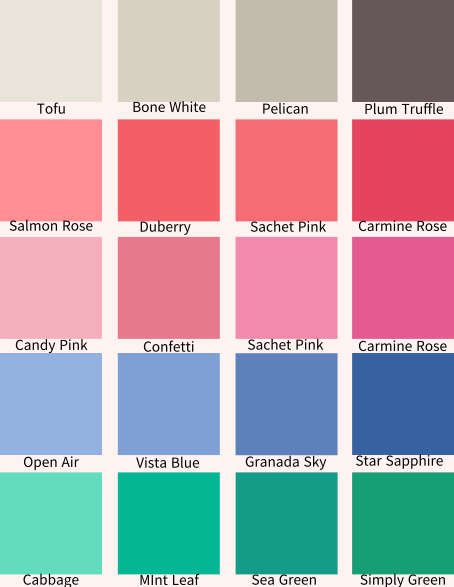
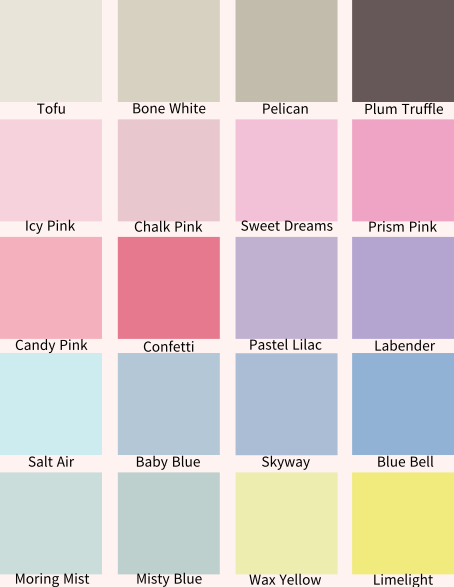
컬러칩수정&쫌쫌따리수정봄

diff --git a/src/personal_color/Result2.js b/src/personal_color/Result2.js
@@ -4,13 +4,13 @@ import PersonalColorDiagnosis from "./PersonalColorsDiagnosis";
 import "./Result2.css";
 
 const colorToTitleMap = {
-  "Spring warm bright": "러블리의 인간화",
-  "Spring warm light": "봄날의 아이콘",
-  "Summer cool light": "싱그러운 청량감의 대표",
-  "Summer cool mute": "청초함의 끝판왕",
-  "Autumn warm deep": "독보적인 분위기",
-  "Autumn warm mute": "가을 햇살의 주인공",
-  "Winter cool bright": "쿨하지만 화려한",
+  "Spring warm bright": "청순한 봄의 요정",
+  "Spring warm light": "과일의 인간화",
+  "Summer cool light": "청초함의 끝판왕",
+  "Summer cool mute": "차분한 분위기",
+  "Autumn warm deep": "차분하고 고급스러운",
+  "Autumn warm mute": "부드럽고 우아한",
+  "Winter cool bright": "강렬하고 화려한",
   "Winter cool deep": "도시적이고 세련된",
   "N-Spring warm light": "웜&쿨 두가지 매력을 가진",
   "N-Summer cool light": "웜&쿨 두가지 매력을 가진",
@@ -43,21 +43,21 @@ const imageMap = {
 
 const colorDescriptions = {
   "Spring warm light":
-    "밝고 산뜻한 봄의 이미지가 느껴지는 톤입니다.\n 주로 흰색빛의 파스텔 계열이 잘 어울립니다.\n 명도와 채도가 낮은 색은 피해주세요!",
+    "밝고 산뜻한 봄의 이미지가 느껴지는 톤이네요!\n 흰빛이 섞인 따뜻한 파스텔 계열이 가장 잘 어울려요.\n 명도와 채도가 낮은 색은 피해주세요!",
   "Spring warm bright":
-    "귀엽고 러블리한 이미지가 느껴지는 톤입니다.\n과일처럼 생기 있고 상큼한 이미지에 맞게 고채도의 따뜻한 밝은 색이 잘 어울립니다.\n차갑고 어두운 색은 피해주세요!",
+    "귀엽고 러블리한 이미지가 느껴지는 톤이네요!\n과일처럼 생기있고 상큼한 이미지에 맞게 고채도의 따뜻한 밝은 색이 잘 어울려요.\n차갑고 어두운 색은 피해주세요!",
   "Summer cool light":
-    "이온음료 광고가 떠오르는 여름의 싱그러움이 느껴지는 톤입니다.\n은은하고 부드러운 파스텔 톤이 가장 잘 어울립니다.\n린넨과 쉬폰 소재의 옷을 입으면 이미지를 더 살릴 수 있어요!",
+    "이온음료 광고가 떠오르는 여름의 청초함이 느껴지는 톤이네요!\n은은하고 부드러운 파스텔 톤이 가장 잘 어울려요.\n린넨과 쉬폰 소재의 옷을 입으면 이미지를 더 살릴 수 있어요!",
   "Summer cool mute":
-    "대체로 회색기가 많이 도는 톤다운된 파스텔 계열이 잘 어울립니다.\n깔끔하고 단아한 이미지가 매력적입니다.\n회기가 많이 도는 경우 자칫 칙칙해 보일 수 있어요.",
+    "차분하고 편안한 에너지를 갖고 계시네요!\n깔끔하고 단아한 이미지가 매력적인 톤이에요.\n깨끗한 셔츠 스타일링이 찰떡이에요.",
   "Autumn warm mute":
-    "부드럽고 차분한 이미지가 떠오르는 톤입니다.\n회기가 돌지만 따뜻한 색이 잘 어울립니다.\n내추럴함이 돋보이는 메이크업과 스타일링이 베스트입니다!",
+    "부드럽고 차분한 에너지를 갖고 계시네요!\n앤틱하고 에스닉한 무드가 잘 어울려요.\n내추럴함이 돋보이는 메이크업과 톤온톤 스타일링이 베스트!",
   "Autumn warm deep":
-    "고급스럽지만 화려한 느낌이 나는 톤입니다.\n어둡지만 채도가 강한 색들이 잘 어울립니다.\n화려한 주얼리도 잘 어울립니다.",
+    "따뜻하고 차분한 이미지가 잘 어울리시네요!\n성숙하고 고급스러운 스타일링이 잘 어울려요.\n화려한 주얼리 스타일링을 누구보다 잘 소화하는 타입!",
   "Winter cool bright":
-    "쿨하지만 화려한 이미지의 톤입니다.\n고채도의 원색에 가까운 쨍한 색이 잘 어울립니다.\n회기 도는 파스텔 계열은 피해주세요.",
+    "쿨하고 화려한 이미지가 잘 어울리시네요!\n대비감있는 스타일링이 잘 어울려요. \n회기 도는 파스텔 계열은 피해주세요!",
   "Winter cool deep":
-    "시크하고 도도한 이미지가 매력적인 톤입니다.\n진한 레드나 블랙이 누구보다 잘 어울립니다.\n노란 계열과 파스텔 톤은 피해주세요!",
+    "시크하고 도도한 이미지가 매력적이시네요!.\n진한 레드나 블랙이 누구보다 잘 어울려요.\n노란 계열과 파스텔 톤은 피해주세요!",
 };
 
 const getImageSrc = (personalColor) => {
@@ -170,9 +170,9 @@ const Result2 = () => {
                   <p>
                     당신은 웜톤과 쿨톤, 두 가지를 모두 잘 소화할 수 있는
                     <br /> 특별한 뉴트럴 톤을 가지고 계시네요.
-                    <br /> 더 자유롭게 여러 스타일을 시도할 수 있어요. <br />
-                    뉴트럴 톤이지만, 당신에게 조금 더 조화로운 컬러가 있는데요,
-                    바로 오른쪽에 나와 있는 계절의 톤이에요!
+                    <br /> 소화할 수 있는 컬러가 풍부한 타입이네요. <br />
+                    뉴트럴 톤이지만, 당신에게 조금 더 어울리는 컬러를 오른쪽에서
+                    알려드릴게요!
                   </p>
                 ) : (
                   <p>{colorDescriptions[analysisData.personal_color]}</p>

diff --git a/src/personal_color/Result2.css b/src/personal_color/Result2.css
@@ -34,6 +34,7 @@
   background-color: #ffccdd; /* 배경색 설정 */
   border-radius: 40px; /* 모서리 둥글게 */
   z-index: 20; /* 다른 요소들 위에 표시 */
+  display: inline-block;
 }
 
 .header-section h1 {
@@ -42,7 +43,9 @@
   font-size: 24px; /* 폰트 크기 */
   text-align: center; /* 글자 중앙 정렬 */
 }
+
 .result2-first-section {
+  text-align: center;
 }
 
 /* 이미지 및 QR 코드 섹션 */
@@ -107,7 +110,7 @@
 
 .color-descriptions {
   width: 100%; /* 설명란 너비를 부모 컨테이너의 너비에 맞춤 */
-  margin-top: -12%;
+  margin-top: -8%;
   white-space: pre-wrap; /* 줄바꿈과 공백을 그대로 표시 */
 }
 
